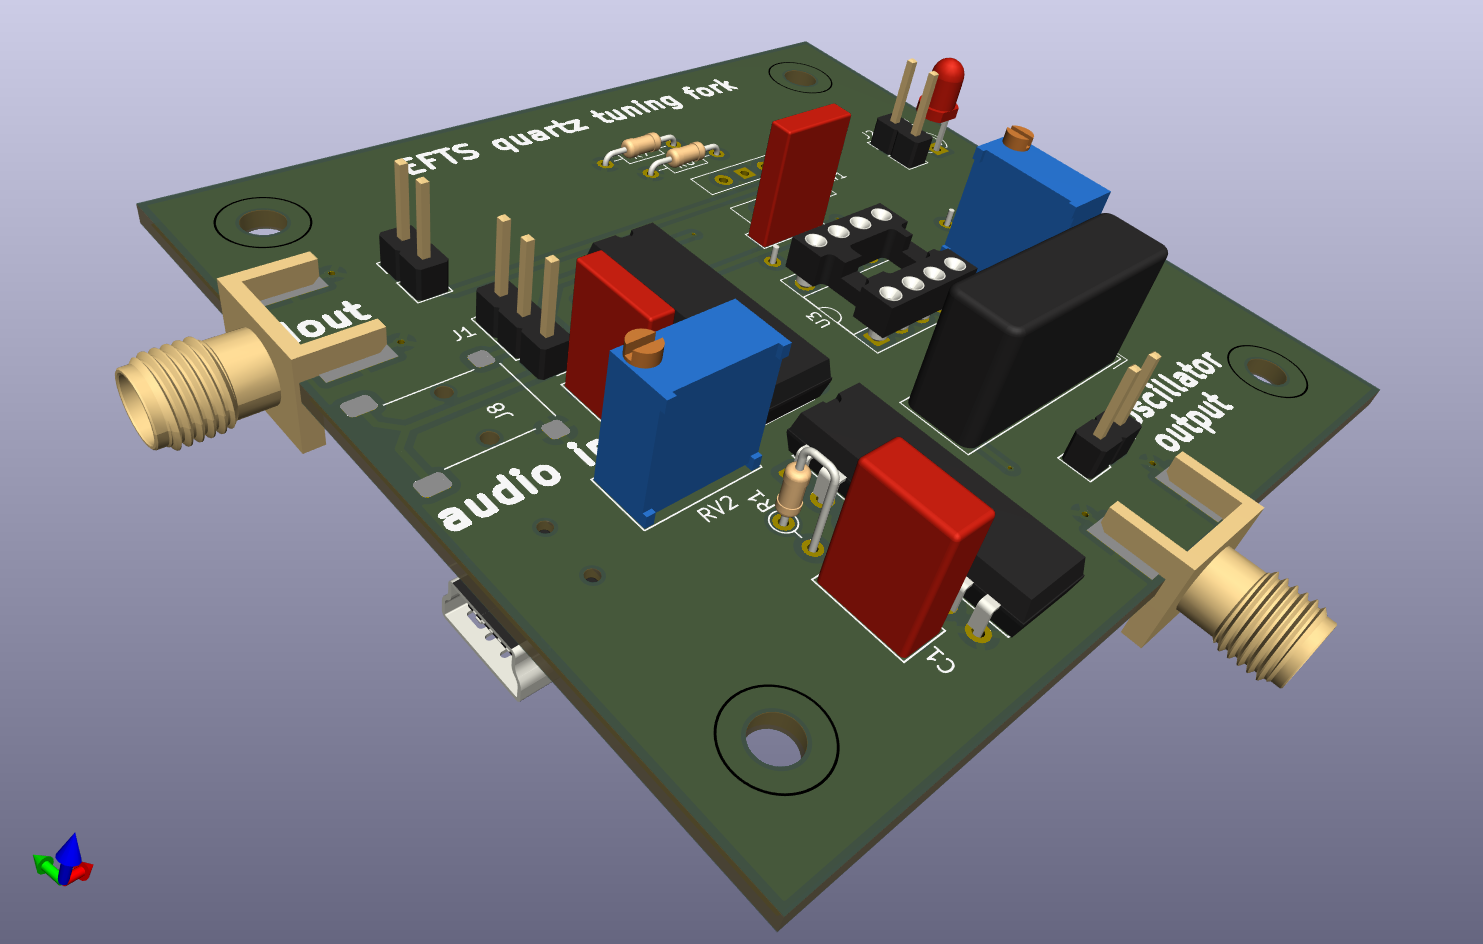
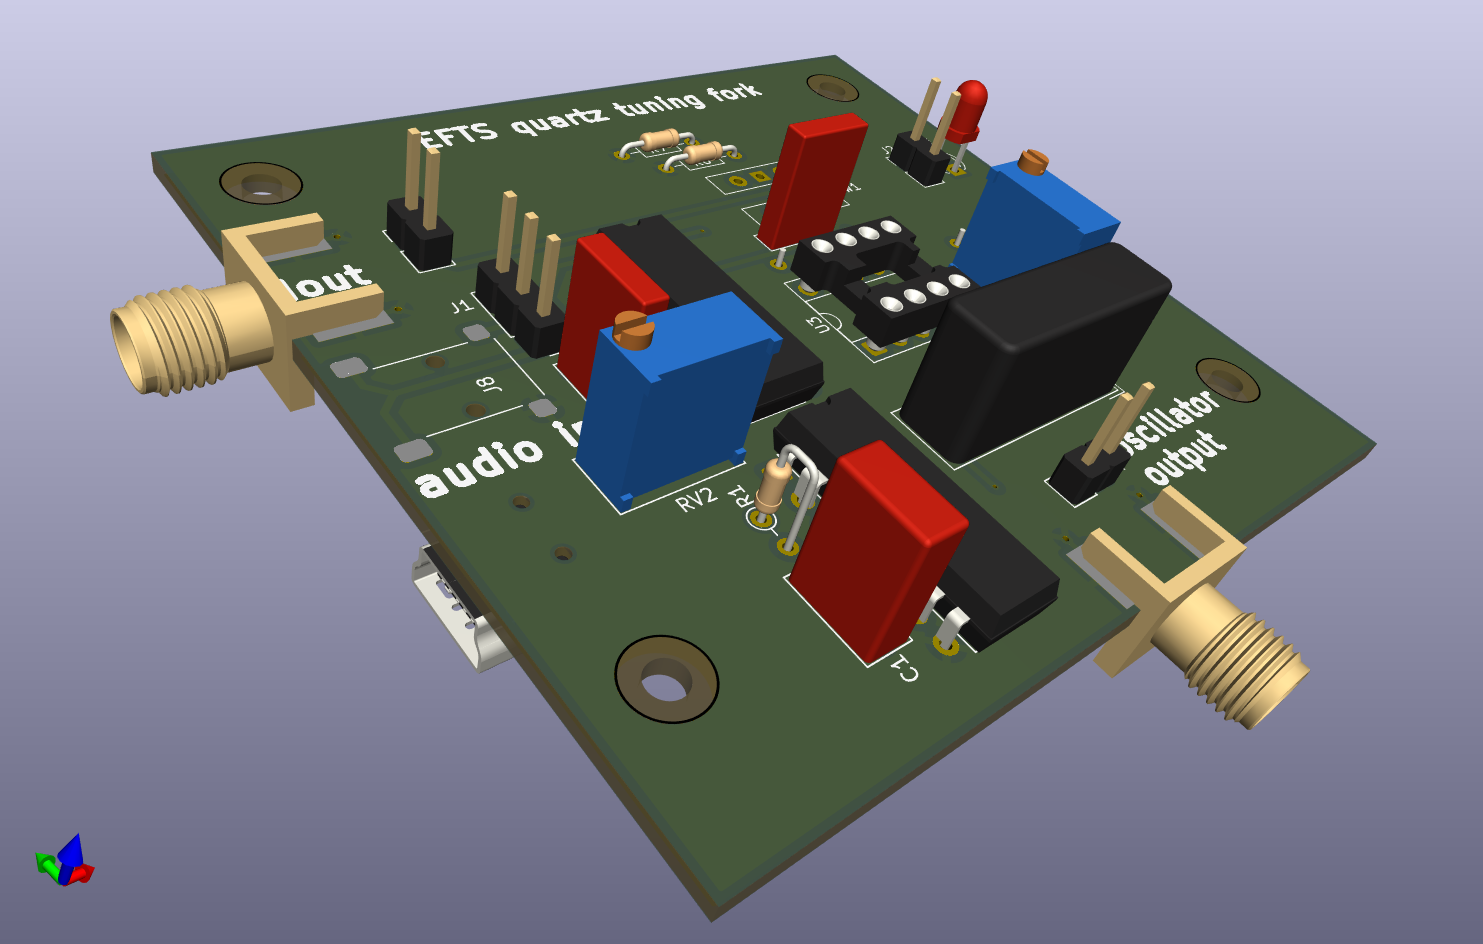
kicad

diff --git a/kicad/README.md b/kicad/README.md
@@ -1,0 +1,8 @@
+KiCAD schematic and board design files.
+
+The non-plated through holes have been placed with a spacing compatible with
+installing the board on top of a Raspberry Pi 4/5 single board computer for
+a compact setup. Whether the heat dissipated by the processor will affect
+the resonator performance remains to be demonstrated.
+
+<img src="tuning_fork.png">
